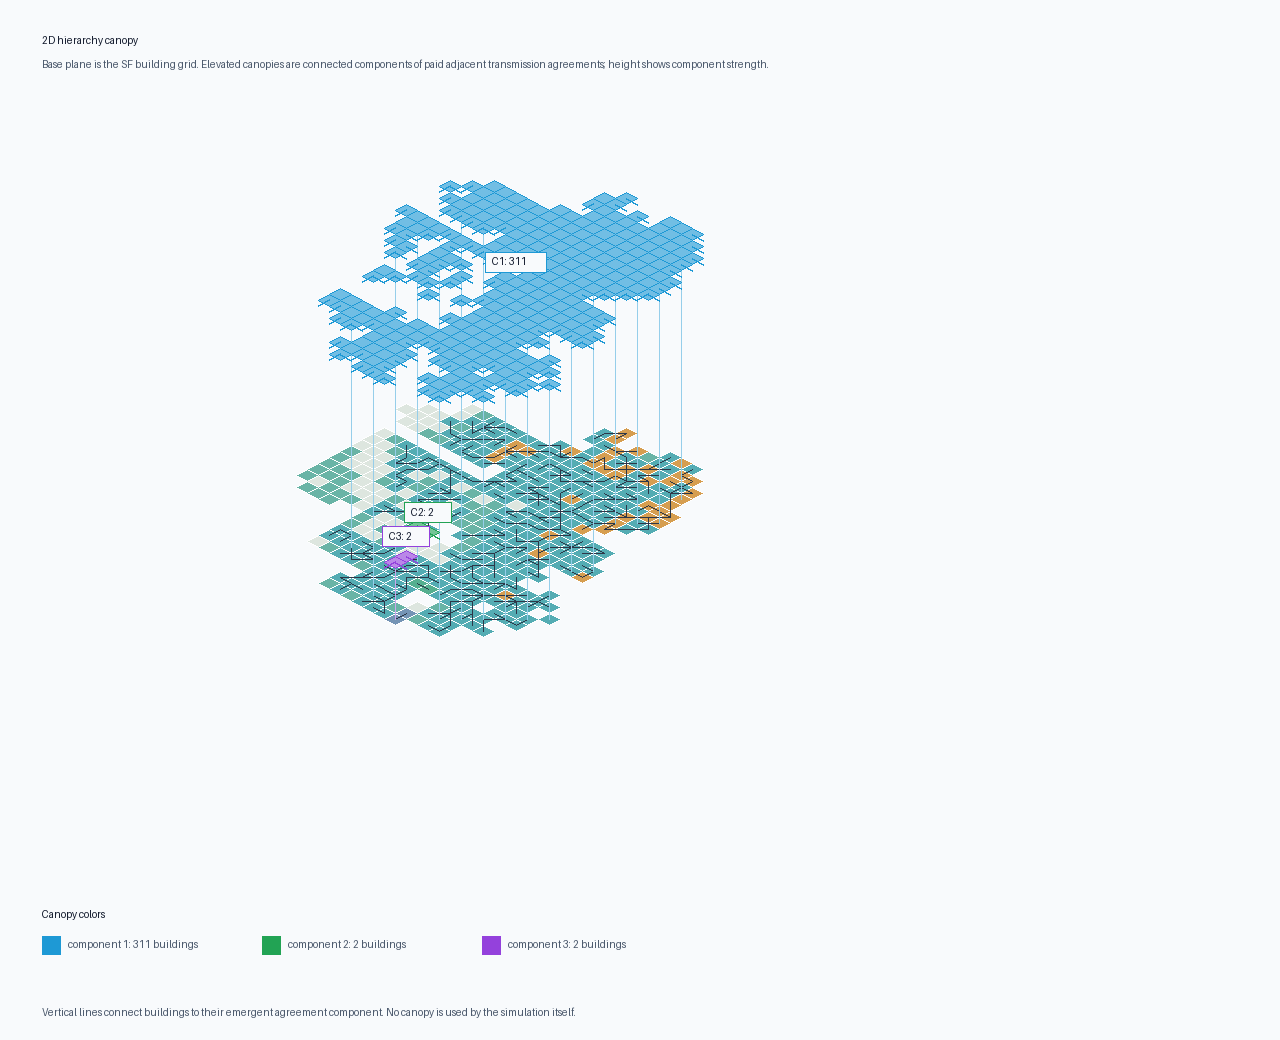
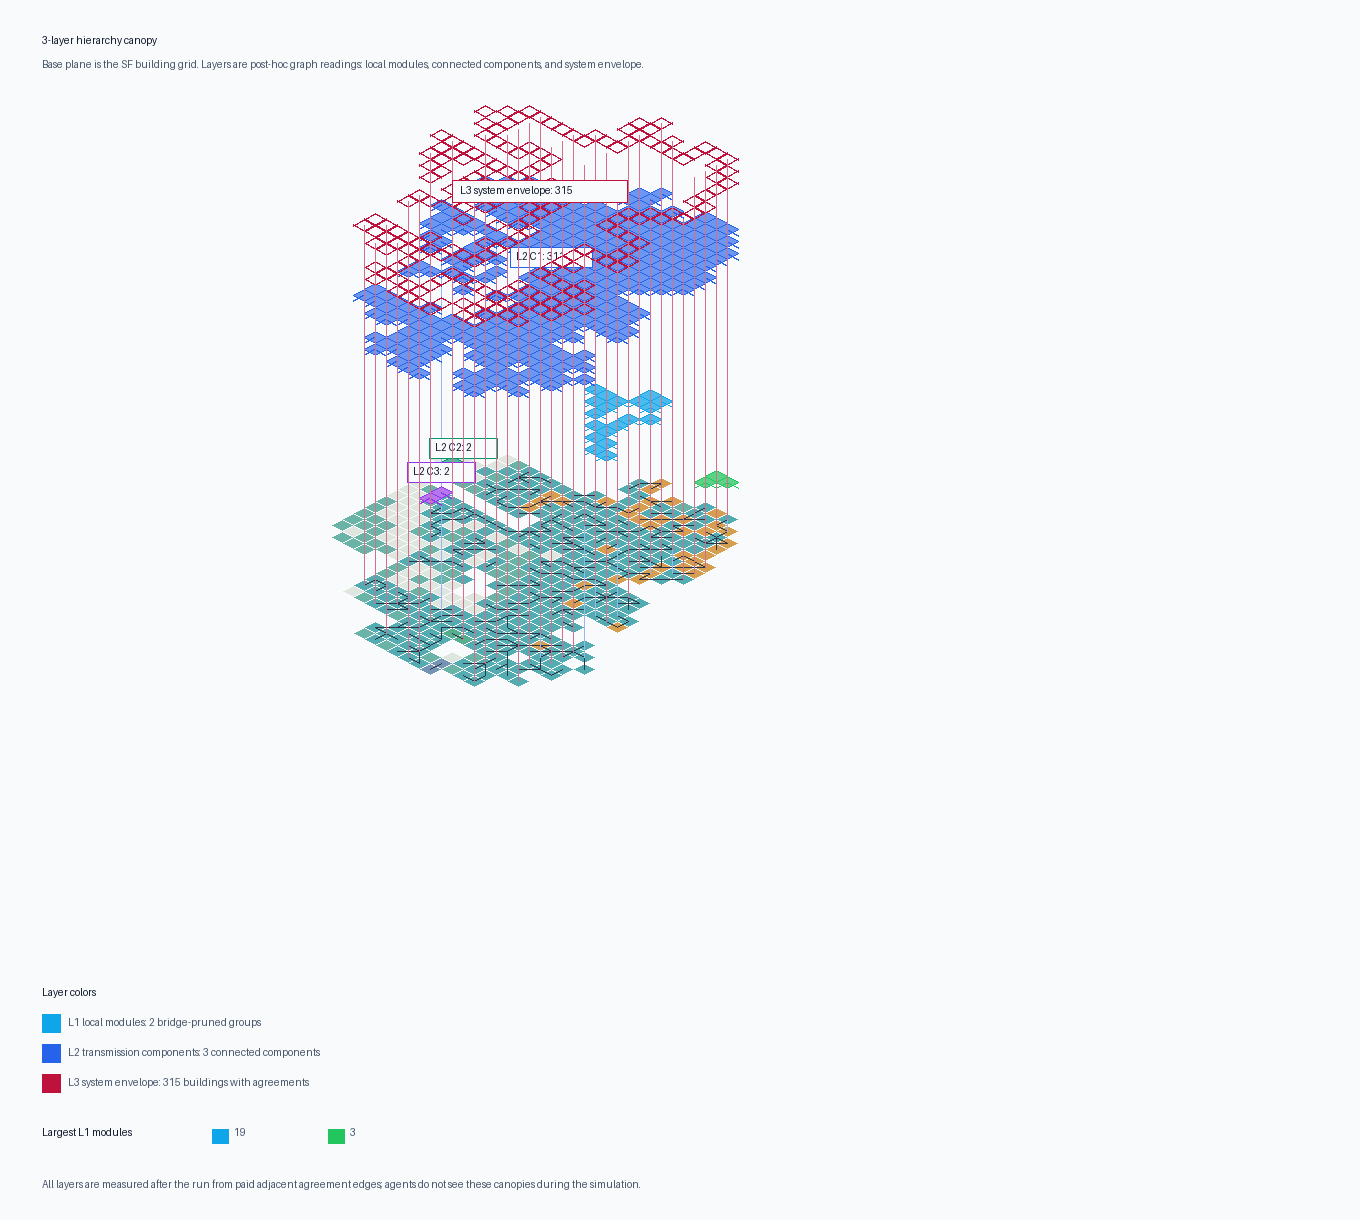
Render three-layer hierarchy canopy

Changed region(s): [[0.0312, 0.0308, 0.5625, 0.6154], [0.0312, 0.8, 0.4688, 0.9846], [0.375, 0.8923, 0.4062, 0.9231]]

diff --git a/scripts/run_sf_terrain_energy_growth.py b/scripts/run_sf_terrain_energy_growth.py
@@ -1161,13 +1161,13 @@ def write_agreement_components_png(cells: list[Cell], grid_size: int, path: Path
 
 
 def write_hierarchy_canopy_png(cells: list[Cell], grid_size: int, path: Path) -> None:
-    width, height = 1280, 1040
+    width, height = 1360, 1220
     image = Image.new("RGB", (width, height), (248, 250, 252))
     draw = ImageDraw.Draw(image)
-    draw.text((42, 34), "2D hierarchy canopy", fill=(15, 23, 42))
+    draw.text((42, 34), "3-layer hierarchy canopy", fill=(15, 23, 42))
     draw.text(
         (42, 58),
-        "Base plane is the SF building grid. Elevated canopies are connected components of paid adjacent transmission agreements; height shows component strength.",
+        "Base plane is the SF building grid. Layers are post-hoc graph readings: local modules, connected components, and system envelope.",
         fill=(71, 85, 105),
     )
 
@@ -1178,17 +1178,94 @@ def write_hierarchy_canopy_png(cells: list[Cell], grid_size: int, path: Path) ->
             continue
         for npos in cell.cables:
             edges.add(edge_key((cell.row, cell.col), npos))
+    nodes = set()
+    for left, right in edges:
+        nodes.add(left)
+        nodes.add(right)
+
+    def connected_components_from_edges(
+        graph_nodes: set[tuple[int, int]],
+        graph_edges: set[tuple[tuple[int, int], tuple[int, int]]],
+    ) -> list[list[tuple[int, int]]]:
+        adj: dict[tuple[int, int], set[tuple[int, int]]] = {node: set() for node in graph_nodes}
+        for left, right in graph_edges:
+            if left in graph_nodes and right in graph_nodes:
+                adj[left].add(right)
+                adj[right].add(left)
+        seen: set[tuple[int, int]] = set()
+        comps_out: list[list[tuple[int, int]]] = []
+        for start in sorted(graph_nodes):
+            if start in seen:
+                continue
+            stack = [start]
+            seen.add(start)
+            comp: list[tuple[int, int]] = []
+            while stack:
+                pos = stack.pop()
+                comp.append(pos)
+                for nxt in adj.get(pos, set()):
+                    if nxt not in seen:
+                        seen.add(nxt)
+                        stack.append(nxt)
+            comps_out.append(sorted(comp))
+        return comps_out
+
+    def find_bridge_edges(
+        graph_nodes: set[tuple[int, int]],
+        graph_edges: set[tuple[tuple[int, int], tuple[int, int]]],
+    ) -> set[tuple[tuple[int, int], tuple[int, int]]]:
+        adj: dict[tuple[int, int], set[tuple[int, int]]] = {node: set() for node in graph_nodes}
+        for left, right in graph_edges:
+            adj[left].add(right)
+            adj[right].add(left)
+        timer = 0
+        tin: dict[tuple[int, int], int] = {}
+        low: dict[tuple[int, int], int] = {}
+        bridges: set[tuple[tuple[int, int], tuple[int, int]]] = set()
+
+        def dfs(node: tuple[int, int], parent: tuple[int, int] | None) -> None:
+            nonlocal timer
+            tin[node] = timer
+            low[node] = timer
+            timer += 1
+            for nxt in adj[node]:
+                if nxt == parent:
+                    continue
+                if nxt in tin:
+                    low[node] = min(low[node], tin[nxt])
+                    continue
+                dfs(nxt, node)
+                low[node] = min(low[node], low[nxt])
+                if low[nxt] > tin[node]:
+                    bridges.add(edge_key(node, nxt))
+
+        for node in sorted(graph_nodes):
+            if node not in tin:
+                dfs(node, None)
+        return bridges
+
     stats = agreement_component_stats(cells, edges)
-    comps = sorted(stats["agreement_components_raw"], key=len, reverse=True)
+    level2_components = sorted(stats["agreement_components_raw"], key=len, reverse=True)
+    bridge_edges = find_bridge_edges(nodes, edges) if nodes else set()
+    level1_edges = {edge for edge in edges if edge not in bridge_edges}
+    level1_modules = [
+        comp for comp in connected_components_from_edges(nodes, level1_edges)
+        if len(comp) >= 2
+    ]
+    if not level1_modules:
+        level1_modules = level2_components
+    level1_modules = sorted(level1_modules, key=len, reverse=True)
+    level3_envelope = [sorted(nodes)] if nodes else []
+
     comp_by_pos: dict[tuple[int, int], int] = {}
-    for idx, comp in enumerate(comps):
+    for idx, comp in enumerate(level2_components):
         for pos in comp:
             comp_by_pos[pos] = idx
 
     tile_w = 22
     tile_h = 12
-    origin_x = 505
-    origin_y = 355
+    origin_x = 540
+    origin_y = 405
 
     def iso(row: int, col: int, z: float = 0.0) -> tuple[float, float]:
         return (
@@ -1213,7 +1290,10 @@ def write_hierarchy_canopy_png(cells: list[Cell], grid_size: int, path: Path) ->
         (99, 102, 241),
         (107, 114, 128),
     ]
-    largest = max((len(comp) for comp in comps), default=1)
+    level1_palette = [(14, 165, 233), (34, 197, 94), (245, 158, 11), (168, 85, 247), (20, 184, 166)]
+    level2_palette = [(37, 99, 235), (5, 150, 105), (147, 51, 234), (217, 119, 6), (79, 70, 229)]
+    level3_color = (190, 18, 60)
+    largest = max((len(comp) for comp in level2_components), default=1)
 
     for cell in cells:
         if not cell.land:
@@ -1237,49 +1317,104 @@ def write_hierarchy_canopy_png(cells: list[Cell], grid_size: int, path: Path) ->
             continue
         draw.line([iso(left[0], left[1]), iso(right[0], right[1])], fill=(45, 55, 72), width=1)
 
-    top_components = comps[:6]
-    for idx, comp in enumerate(top_components):
-        color = palette[idx % len(palette)]
-        z = 55 + 180 * (len(comp) / largest)
+    def draw_canopy_tiles(
+        comp: list[tuple[int, int]],
+        z: float,
+        color: tuple[int, int, int],
+        fill_mix: float,
+        line_every: int,
+        outline_width: int,
+    ) -> None:
         comp_set = set(comp)
         for row, col in comp:
-            if (row + col) % 4 == 0:
+            if line_every > 0 and (row + col) % line_every == 0:
                 base = iso(row, col, 0.0)
                 top = iso(row, col, z)
                 draw.line([base, top], fill=blend(color, 0.45), width=1)
         for row, col in sorted(comp, key=lambda p: p[0] + p[1]):
             pts = diamond(row, col, z)
-            draw.polygon(pts, fill=blend(color, 0.62), outline=color)
+            draw.polygon(pts, fill=blend(color, fill_mix), outline=color)
             east = (row, col + 1)
             south = (row + 1, col)
             if east not in comp_set:
                 p1 = iso(row, col, z)
                 p2 = iso(row, col + 1, z)
-                draw.line([p1, p2], fill=color, width=2)
+                draw.line([p1, p2], fill=color, width=outline_width)
             if south not in comp_set:
                 p1 = iso(row, col, z)
                 p2 = iso(row + 1, col, z)
-                draw.line([p1, p2], fill=color, width=2)
+                draw.line([p1, p2], fill=color, width=outline_width)
+
+    def draw_envelope_outline(comp: list[tuple[int, int]], z: float, color: tuple[int, int, int]) -> None:
+        comp_set = set(comp)
+        moore_offsets = [
+            (dr, dc)
+            for dr in (-1, 0, 1)
+            for dc in (-1, 0, 1)
+            if not (dr == 0 and dc == 0)
+        ]
+        for row, col in sorted(comp, key=lambda p: p[0] + p[1]):
+            if all((row + dr, col + dc) in comp_set for dr, dc in moore_offsets):
+                continue
+            pts = diamond(row, col, z)
+            draw.line(pts + [pts[0]], fill=color, width=2)
+        for row, col in comp[:: max(1, len(comp) // 80)]:
+            draw.line([iso(row, col, 0.0), iso(row, col, z)], fill=blend(color, 0.60), width=1)
+
+    top_level1 = level1_modules[:10]
+    for idx, comp in enumerate(top_level1):
+        color = level1_palette[idx % len(level1_palette)]
+        z = 48 + 82 * (len(comp) / max(1, len(top_level1[0])))
+        draw_canopy_tiles(comp, z, color, 0.74, 5, 1)
+
+    top_level2 = level2_components[:6]
+    for idx, comp in enumerate(top_level2):
+        color = level2_palette[idx % len(level2_palette)]
+        z = 170 + 120 * (len(comp) / largest)
+        draw_canopy_tiles(comp, z, color, 0.66, 7, 2)
         center_row = sum(row for row, _ in comp) / len(comp)
         center_col = sum(col for _, col in comp) / len(comp)
         lx, ly = iso(round(center_row), round(center_col), z + 18)
-        label = f"C{idx + 1}: {len(comp)}"
+        label = f"L2 C{idx + 1}: {len(comp)}"
         tw = 7 * len(label) + 12
         draw.rectangle([lx - tw / 2, ly - 12, lx + tw / 2, ly + 8], fill=(248, 250, 252), outline=color)
         draw.text((lx - tw / 2 + 6, ly - 9), label, fill=(15, 23, 42))
 
-    lx, ly = 42, height - 132
-    draw.text((lx, ly), "Canopy colors", fill=(15, 23, 42))
+    for comp in level3_envelope:
+        z = 360
+        draw_envelope_outline(comp, z, level3_color)
+        center_row = sum(row for row, _ in comp) / len(comp)
+        center_col = sum(col for _, col in comp) / len(comp)
+        lx, ly = iso(round(center_row), round(center_col), z + 20)
+        label = f"L3 system envelope: {len(comp)}"
+        tw = 7 * len(label) + 14
+        draw.rectangle([lx - tw / 2, ly - 13, lx + tw / 2, ly + 9], fill=(248, 250, 252), outline=level3_color)
+        draw.text((lx - tw / 2 + 7, ly - 9), label, fill=(15, 23, 42))
+
+    lx, ly = 42, height - 234
+    draw.text((lx, ly), "Layer colors", fill=(15, 23, 42))
     ly += 28
-    for idx, comp in enumerate(top_components):
-        color = palette[idx % len(palette)]
-        x = lx + (idx % 3) * 220
-        y = ly + (idx // 3) * 30
+    legend_rows = [
+        ((14, 165, 233), f"L1 local modules: {len(level1_modules)} bridge-pruned groups"),
+        ((37, 99, 235), f"L2 transmission components: {len(level2_components)} connected components"),
+        (level3_color, f"L3 system envelope: {len(nodes)} buildings with agreements"),
+    ]
+    for idx, (color, label) in enumerate(legend_rows):
+        x = lx
+        y = ly + idx * 30
         draw.rectangle([x, y, x + 18, y + 18], fill=color)
-        draw.text((x + 26, y + 2), f"component {idx + 1}: {len(comp)} buildings", fill=(71, 85, 105))
+        draw.text((x + 26, y + 2), label, fill=(71, 85, 105))
+    ly += 112
+    draw.text((lx, ly), "Largest L1 modules", fill=(15, 23, 42))
+    for idx, comp in enumerate(top_level1[:5]):
+        x = lx + 170 + idx * 116
+        y = ly
+        color = level1_palette[idx % len(level1_palette)]
+        draw.rectangle([x, y + 3, x + 16, y + 17], fill=color)
+        draw.text((x + 22, y), str(len(comp)), fill=(71, 85, 105))
     draw.text(
-        (42, height - 34),
-        "Vertical lines connect buildings to their emergent agreement component. No canopy is used by the simulation itself.",
+        (42, height - 42),
+        "All layers are measured after the run from paid adjacent agreement edges; agents do not see these canopies during the simulation.",
         fill=(71, 85, 105),
     )
     image.save(path)